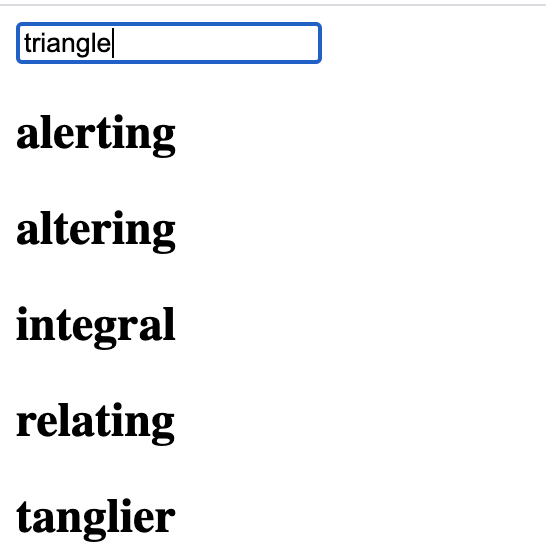
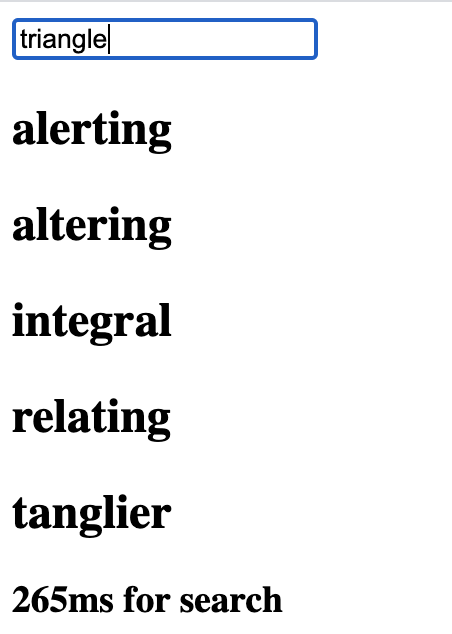
added timer

diff --git a/src/event.js b/src/event.js
@@ -2,6 +2,7 @@ const source = document.getElementById('source');
 const container = document.getElementById('anagram-container');
 
 source.addEventListener('input', () => {
+    let start = Date.now()
     let anagrams = findAnagrams(source.value);
     container.innerHTML = "";
     if (!anagrams.length) {
@@ -13,6 +14,7 @@ source.addEventListener('input', () => {
         solution.innerText = ana;
         container.appendChild(solution)
     })
+    document.getElementById('whenInDoubtPoundItOut').innerText = `${Date.now() - start}ms for search`
 })
 
 

diff --git a/index.html b/index.html
@@ -8,6 +8,10 @@
     <input id='source' placeholder = "Enter a word" size="20">
     <div id="anagram-container">
     </div>
+    <div>
+      <h3 id='whenInDoubtPoundItOut'></h3>
+    </div>
+
 
         <script src='src/words.js'></script>
         <script src='solution.js'></script>

diff --git a/README.md b/README.md
@@ -12,9 +12,10 @@ The order of the two words essentially does not matter as you are checking to se
 * If you write the function correctly, the file index.html will automatically render any anagrams found in a 178,000+ word list for you beneath the input field.
 * Otherwise, the phrase "No anagrams found!" will be displayed.
 * As there is no Submit button, your function will run with the text field's onInput event, so every time the field's content is changed!
-* I can't vouch for the speed of all working solutions, but the solution I came up with runs with a barely noticeable delay despite searching against 178,000 words everytime.
+* I can't vouch for the speed of all working solutions, but the solution I came up with runs beween 8 and 300ms despite searching against 178,000 words everytime.
 
 
 Good luck!!!
 
 ![Sample](/src/sample.png)
+![Sample](/src/sample2.png)
